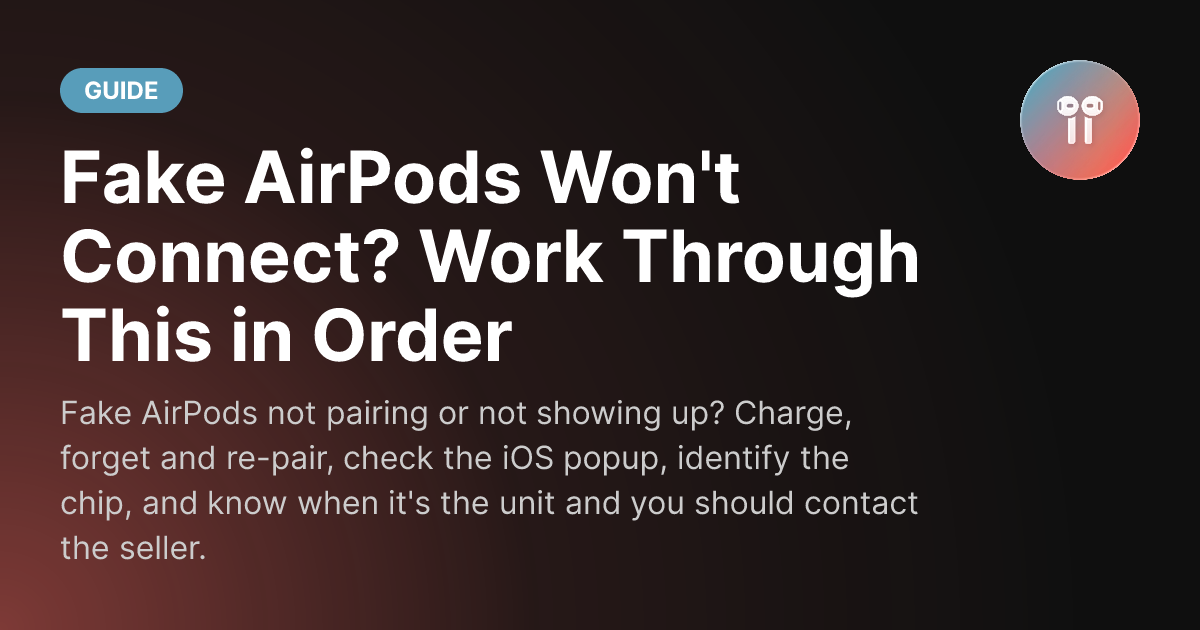
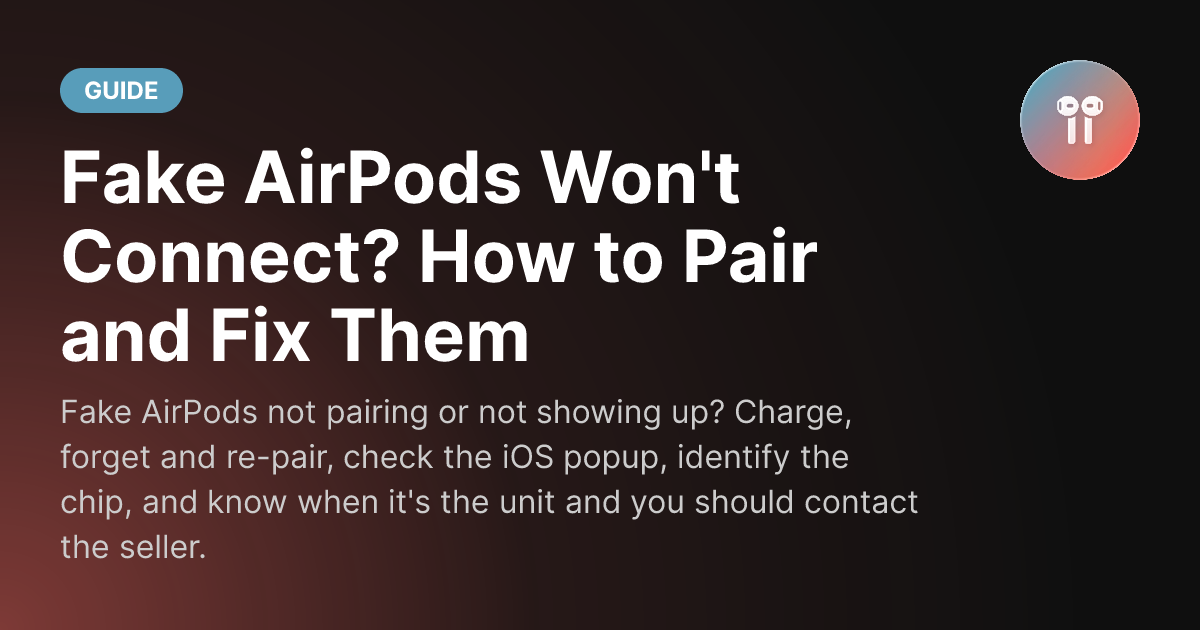
Forward trailing-slash and mistyped guide URLs; retitle won't-connect (#222)
Search Console's indexing report (updated 23 Oct) lists 104 URLs as 404.
About 45 are real pages with a trailing slash (/introduction/overview/,
/ordering/kakobuy/, /useful-apps/ ...), and a dozen are links in other
languages with text glued to /links/info) .

- buildEnd writes page/index.html next to every page.html: noindex,
  canonical to the clean URL, JS forward that keeps query and hash, and a
  meta refresh. GitHub Pages serves page.html for /page and the stub for
  /page/, the same pattern the product-family stubs use live. The sitemap is
  unchanged (441 URLs).
- The 404 page strips text after ")" and a .md suffix before rendering, so
  /links/info)de lands on /links/info. The rule cannot match its own result,
  so it cannot loop; other 404s stay 404.
- "Fake AirPods Won't Connect?" article: 2,688 impressions at 2.4% CTR in
  the last 28 days, mostly "how to pair/connect" searches. Its title now
  says "How to Pair and Fix Them"; the page already covers pairing with the
  case button. H1 and content are unchanged.

diff --git a/scripts/url-fallbacks.test.ts b/scripts/url-fallbacks.test.ts
@@ -1,0 +1,128 @@
+import { describe, expect, test } from 'bun:test';
+import { existsSync, mkdirSync, mkdtempSync, readFileSync, rmSync, writeFileSync } from 'node:fs';
+import { tmpdir } from 'node:os';
+import path from 'node:path';
+import {
+    fixMistypedPath,
+    injectNotFoundFix,
+    notFoundFixScript,
+    pagesNeedingSlashStub,
+    slashRedirectHtml,
+    writeTrailingSlashRedirects,
+} from '../docs/.vitepress/url-fallbacks';
+
+function fakeDist(): string {
+    const dir = mkdtempSync(path.join(tmpdir(), 'airreps-dist-'));
+    const files = [
+        '404.html',
+        'index.html',
+        'useful-apps.html',
+        'introduction/overview.html',
+        'da/index.html',
+        'da/ordering/kakobuy.html',
+        'articles/index.html',
+        'version-info/airpods-pro-3.html',
+        'version-info/airpods-pro-3/index.html',
+        'assets/chunk.html',
+    ];
+    for (const file of files) {
+        mkdirSync(path.dirname(path.join(dir, file)), { recursive: true });
+        writeFileSync(
+            path.join(dir, file),
+            '<!doctype html><html><head></head><body></body></html>'
+        );
+    }
+    return dir;
+}
+
+describe('trailing-slash stubs', () => {
+    test('cover real pages only, never homes, indexes, 404, assets or existing stubs', () => {
+        const dir = fakeDist();
+        try {
+            expect(pagesNeedingSlashStub(dir)).toEqual([
+                '/da/ordering/kakobuy',
+                '/introduction/overview',
+                '/useful-apps',
+            ]);
+        } finally {
+            rmSync(dir, { force: true, recursive: true });
+        }
+    });
+
+    test('write a canonical forward that keeps query and hash', () => {
+        const dir = fakeDist();
+        try {
+            writeTrailingSlashRedirects(dir);
+            const stub = readFileSync(path.join(dir, 'useful-apps/index.html'), 'utf8');
+            expect(stub).toBe(slashRedirectHtml('/useful-apps'));
+            expect(stub).toContain(
+                '<link rel="canonical" href="https://airpodsreplicas.com/useful-apps">'
+            );
+            expect(stub).toContain(
+                'location.replace("/useful-apps"+location.search+location.hash)'
+            );
+            expect(stub).toContain('<meta http-equiv="refresh" content="0; url=/useful-apps">');
+            // The real page next to the stub is untouched.
+            expect(readFileSync(path.join(dir, 'useful-apps.html'), 'utf8')).not.toContain(
+                'refresh'
+            );
+            // Running twice changes nothing: the new directories block a second stub.
+            expect(pagesNeedingSlashStub(dir)).toEqual([]);
+        } finally {
+            rmSync(dir, { force: true, recursive: true });
+        }
+    });
+});
+
+describe('404 fallback for mistyped URLs', () => {
+    test('strips text glued after a closing parenthesis and .md suffixes', () => {
+        expect(fixMistypedPath('/links/info)de')).toBe('/links/info');
+        expect(fixMistypedPath('/links/info)./n')).toBe('/links/info');
+        expect(fixMistypedPath('/links/info)tuy%E1%BB%83n')).toBe('/links/info');
+        expect(fixMistypedPath('/index.md')).toBe('/');
+        expect(fixMistypedPath('/ordering/how-to-buy.md')).toBe('/ordering/how-to-buy');
+        expect(fixMistypedPath('/da/index.md')).toBe('/da/');
+    });
+
+    test('leaves everything else on the 404 page, so it can never loop', () => {
+        for (const p of [
+            '/',
+            '/links/',
+            '/troubleshooting',
+            '/%E6%89%BE%E5%88%B0%E6%8C%87%E5%8D%97',
+            '/links/info',
+            '/%',
+        ]) {
+            expect(fixMistypedPath(p)).toBeNull();
+        }
+        for (const p of ['/links/info)de', '/index.md']) {
+            expect(fixMistypedPath(fixMistypedPath(p) ?? '')).toBeNull();
+        }
+    });
+
+    test('ships the same function in the 404 page head, once', () => {
+        const dir = fakeDist();
+        try {
+            expect(injectNotFoundFix(dir)).toBe(true);
+            expect(injectNotFoundFix(dir)).toBe(false);
+            const html = readFileSync(path.join(dir, '404.html'), 'utf8');
+            expect(html.startsWith('<!doctype html><html><head><script data-url-fix>')).toBe(true);
+            expect(html).toContain(notFoundFixScript());
+            expect(existsSync(path.join(dir, '404/index.html'))).toBe(false);
+        } finally {
+            rmSync(dir, { force: true, recursive: true });
+        }
+    });
+
+    test('the inline script redirects in a browser-like scope', () => {
+        const replaced: string[] = [];
+        const location = {
+            hash: '#faq',
+            pathname: '/links/info)de',
+            replace: (url: string) => replaced.push(url),
+            search: '?a=1',
+        };
+        new Function('location', notFoundFixScript())(location);
+        expect(replaced).toEqual(['/links/info?a=1#faq']);
+    });
+});

diff --git a/docs/.vitepress/url-fallbacks.ts b/docs/.vitepress/url-fallbacks.ts
@@ -1,0 +1,98 @@
+import fs from 'node:fs';
+import path from 'node:path';
+
+// Search Console (indexing report, 23 Oct 2026) listed 104 URLs as 404. About
+// 45 are real pages with a trailing slash (/introduction/overview/,
+// /ordering/kakobuy/, /useful-apps/ ...), and a dozen are links written in
+// other languages with text glued on (/links/info)de, /links/info)tuyển).
+// GitHub Pages serves `page.html` for /page and `page/index.html` for /page/
+// when both exist (the product-family stubs already rely on this), so each
+// page gets a slash stub that forwards to its canonical URL.
+
+const SITE = 'https://airpodsreplicas.com';
+
+export function slashRedirectHtml(target: string): string {
+    const js = JSON.stringify(target);
+    return `<!doctype html><html><head><meta charset="utf-8"><meta name="robots" content="noindex, follow"><link rel="canonical" href="${SITE}${target}"><script>location.replace(${js}+location.search+location.hash)</script><meta http-equiv="refresh" content="0; url=${target}"></head><body><a href="${target}">${target}</a></body></html>`;
+}
+
+/** Every built page `a/b.html` without an `a/b/` directory, as its clean URL `/a/b`. */
+export function pagesNeedingSlashStub(outDir: string): string[] {
+    const urls: string[] = [];
+    const walk = (dir: string): void => {
+        for (const entry of fs.readdirSync(dir, { withFileTypes: true })) {
+            const full = path.join(dir, entry.name);
+            if (entry.isDirectory()) {
+                if (entry.name !== 'assets') {
+                    walk(full);
+                }
+                continue;
+            }
+            if (!entry.name.endsWith('.html') || entry.name === 'index.html') {
+                continue;
+            }
+            if (path.relative(outDir, full) === '404.html') {
+                continue;
+            }
+            if (fs.existsSync(full.slice(0, -'.html'.length))) {
+                continue;
+            }
+            urls.push(
+                `/${path.relative(outDir, full).slice(0, -'.html'.length).split(path.sep).join('/')}`
+            );
+        }
+    };
+    walk(outDir);
+    return urls.sort();
+}
+
+export function writeTrailingSlashRedirects(outDir: string): string[] {
+    const urls = pagesNeedingSlashStub(outDir);
+    for (const url of urls) {
+        const file = path.join(outDir, url.slice(1), 'index.html');
+        fs.mkdirSync(path.dirname(file), { recursive: true });
+        fs.writeFileSync(file, slashRedirectHtml(url));
+    }
+    return urls;
+}
+
+/**
+ * Where a mistyped guide URL should go, or null to keep the 404. Only strips
+ * text after a `)` and a `.md`/`index.md` suffix, so the result never matches
+ * again and the 404 page cannot loop. Runs in the browser on the 404 page.
+ */
+export function fixMistypedPath(pathname: string): string | null {
+    let p = pathname;
+    try {
+        p = decodeURIComponent(pathname);
+    } catch {
+        // Keep the raw path when it is not valid percent-encoding.
+    }
+    const fixed = p
+        .replace(/\).*$/, '')
+        .replace(/(^|\/)index\.md$/, '$1')
+        .replace(/\.md$/, '');
+    return fixed && fixed !== p ? fixed : null;
+}
+
+export function notFoundFixScript(): string {
+    return `(function(){var f=(${fixMistypedPath.toString()})(location.pathname);if(f){location.replace(f+location.search+location.hash)}})()`;
+}
+
+/** Add the mistyped-URL fix to the start of the built 404 page's head. */
+export function injectNotFoundFix(outDir: string): boolean {
+    const file = path.join(outDir, '404.html');
+    if (!fs.existsSync(file)) {
+        return false;
+    }
+    const html = fs.readFileSync(file, 'utf-8');
+    if (html.includes('data-url-fix')) {
+        return false;
+    }
+    const tagged = html.replace(
+        '<head>',
+        `<head><script data-url-fix>${notFoundFixScript()}</script>`
+    );
+    fs.writeFileSync(file, tagged);
+    return tagged !== html;
+}

diff --git a/docs/.vitepress/config.ts b/docs/.vitepress/config.ts
@@ -15,6 +15,7 @@ import { redirectPlugin, writeProductRedirects } from './plugins/redirect';
 import { privacyLink } from './privacy-link';
 import { productDestination, productRedirectScript } from './product-routes';
 import { seasonScript } from './theme/season';
+import { injectNotFoundFix, writeTrailingSlashRedirects } from './url-fallbacks';
 
 const configDir = path.dirname(fileURLToPath(import.meta.url));
 const docsDir = path.resolve(configDir, '..');
@@ -730,6 +731,8 @@ export default defineConfigWithTheme<DefaultTheme.Config & { synthetic404Head: H
     base: '/',
     buildEnd: (site) => {
         writeProductRedirects(site.outDir);
+        writeTrailingSlashRedirects(site.outDir);
+        injectNotFoundFix(site.outDir);
         stampLlmsFiles(site.outDir, repoRoot);
     },
     cleanUrls: true,

diff --git a/docs/articles/fake-airpods-wont-connect.md b/docs/articles/fake-airpods-wont-connect.md
@@ -1,5 +1,5 @@
 ---
-title: "Fake AirPods Won't Connect? Work Through This in Order"
+title: "Fake AirPods Won't Connect? How to Pair and Fix Them"
 description: "Fake AirPods not pairing or not showing up? Charge, forget and re-pair, check the iOS popup, identify the chip, and know when it's the unit and you should contact the seller."
 category: "Troubleshooting"
 order: 8
